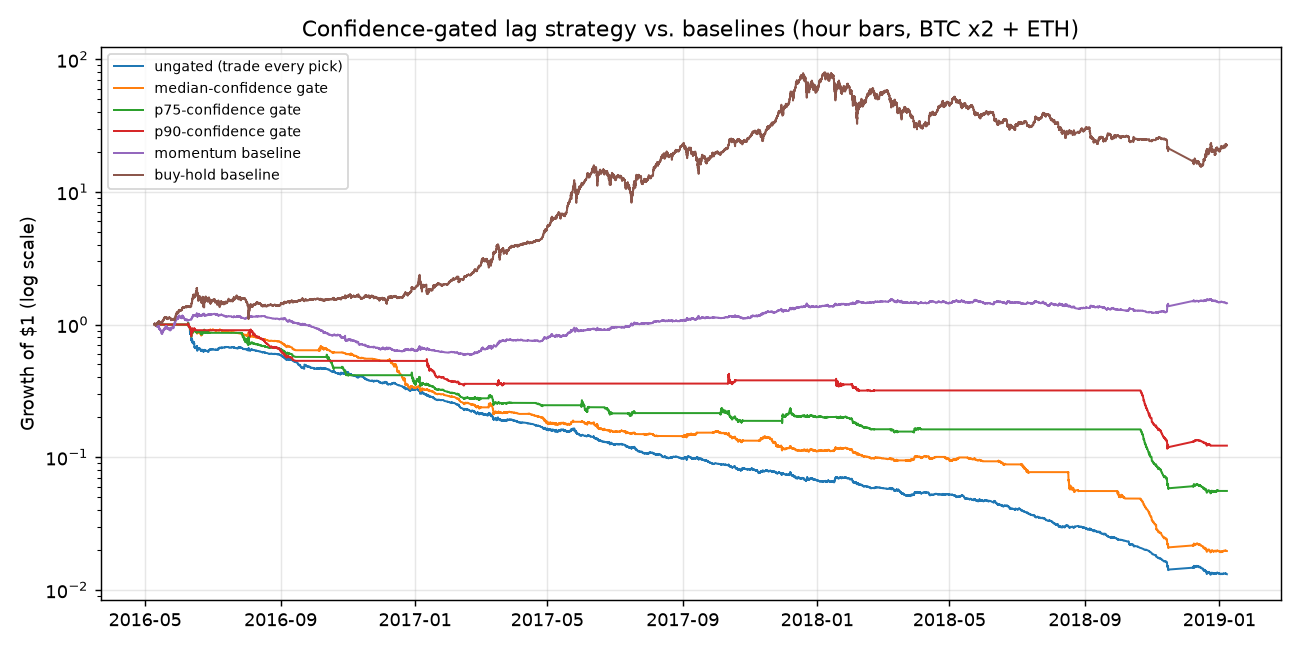
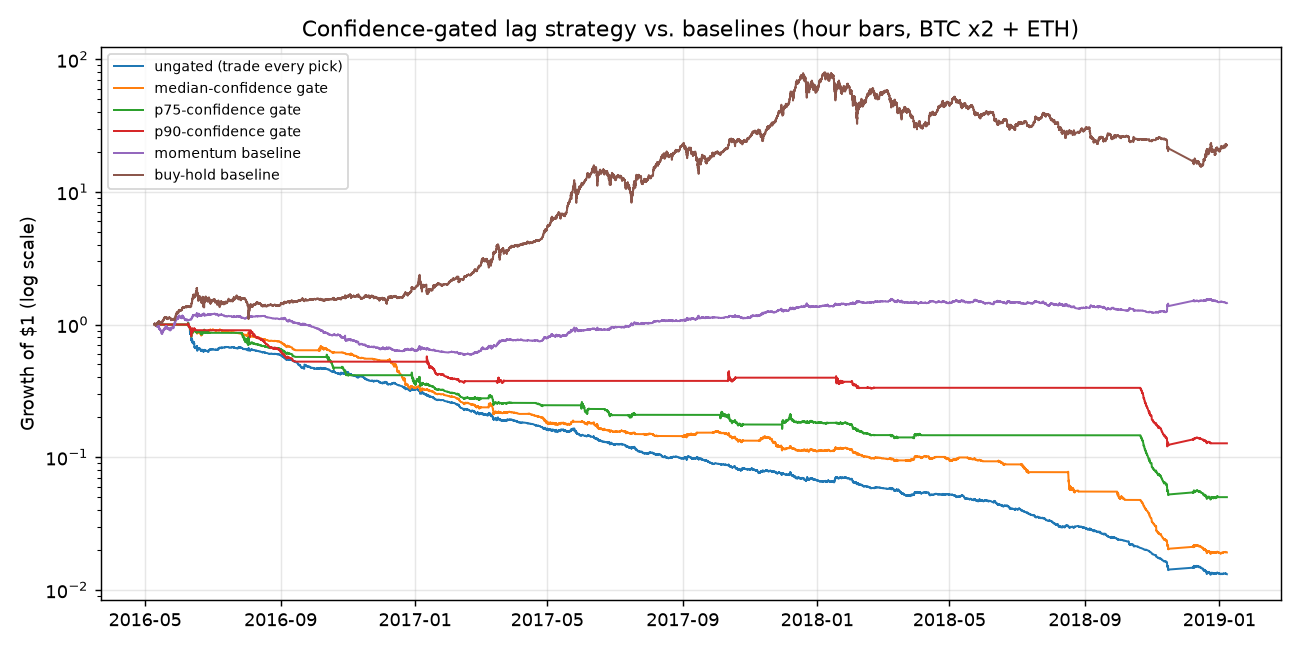
Vectorize vol-targeting scale calc in intraday backtest (perf fix)
The per-bar Python loop computing rolling realized vol was O(T) numpy
calls, fine at daily/hourly scale (T ~ 7k-23k) but unusable at T ~ 1.4M
minute bars (est. tens of minutes per backtest call, times ~200
permutations). Replaced with pandas rolling().std().shift(1), ~6.5x
faster on the hourly panel and makes the minute-frequency permutation
suite tractable. Also drops minute-frequency permutation count to 50
(vs. 200 for hourly) to keep total runtime reasonable given the still
higher per-call cost at that row count.

diff --git a/experiments/lag_propagation_intraday/run.py b/experiments/lag_propagation_intraday/run.py
@@ -34,6 +34,7 @@ CONFIGS = {
         target_vol_annual=0.20,
         vol_lookback=24 * 30,
         max_leverage=3.0,
+        n_permutations=200,
     ),
     "minute": dict(
         window=60 * 24 * 7,    # 1-week trailing window
@@ -45,6 +46,7 @@ CONFIGS = {
         target_vol_annual=0.20,
         vol_lookback=60 * 24 * 7,
         max_leverage=3.0,
+        n_permutations=50,  # T~1.4M rows: each permutation costs ~5s, keep runtime sane
     ),
 }
 
@@ -215,7 +217,7 @@ def main():
         for row in disc["all_significant_pairs"]:
             print(f"  {row['driver']:15s} -> {row['target']:15s} lag={row['lag']:3d} corr={row['corr']:+.4f} q={row['qvalue']:.2e}")
 
-        bt = run_backtest_suite(rets, ALL_ASSETS, TRADABLE_ASSETS, cfg)
+        bt = run_backtest_suite(rets, ALL_ASSETS, TRADABLE_ASSETS, cfg, n_permutations=cfg["n_permutations"])
         for label, m in bt["gated_results"].items():
             print(f"  [{label}] sharpe={m['sharpe']:.3f} n_active={m['mean_n_active']:.2f} "
                   f"turnover={m['mean_turnover']:.3f} threshold={m['threshold_abs_corr']:.4f}")
@@ -236,7 +238,7 @@ def main():
                                 f"Effect of confidence gating ({freq} bars)")
         plot_null_distribution(bt["_null_sharpes"], bt["gated_results"]["ungated (trade every pick)"]["sharpe"],
                                 os.path.join(RESULTS_DIR, f"permutation_null_{freq}.png"),
-                                f"Best-pick vs. {N_PERMUTATIONS} random permutations ({freq} bars)")
+                                f"Best-pick vs. {cfg['n_permutations']} random permutations ({freq} bars)")
 
     json_out = {freq: {"discovery": r["discovery"], "backtest": clean(r["backtest"])} for freq, r in results.items()}
     with open(os.path.join(RESULTS_DIR, "summary.json"), "w") as f:

diff --git a/experiments/lag_propagation_intraday/backtest.py b/experiments/lag_propagation_intraday/backtest.py
@@ -140,11 +140,14 @@ def raw_signal_to_portfolio(raw: np.ndarray, target_rets: np.ndarray, annualizat
     port_raw_ret = np.zeros(T)
     port_raw_ret[1:] = (weight[:-1] * target_rets[1:]).sum(axis=1)
 
-    scale = np.ones(T)
-    for t in range(vol_lookback + 1, T):
-        realized = port_raw_ret[t - vol_lookback:t].std(ddof=1) * np.sqrt(annualization)
-        if realized > 1e-8:
-            scale[t] = min(target_vol_annual / realized, max_leverage)
+    # rolling std of port_raw_ret, evaluated one bar back (no lookahead), vectorized
+    # -- a plain Python per-bar loop here is O(T) numpy calls and doesn't scale to
+    # T ~ 10^6 minute bars.
+    rolling_std = pd.Series(port_raw_ret).rolling(vol_lookback).std(ddof=1).shift(1).to_numpy()
+    realized = rolling_std * np.sqrt(annualization)
+    with np.errstate(invalid="ignore", divide="ignore"):
+        scale = np.where(realized > 1e-8, np.minimum(target_vol_annual / realized, max_leverage), 1.0)
+    scale = np.nan_to_num(scale, nan=1.0)
 
     scaled_weight = weight * scale[:, None]
     turnover = np.abs(np.diff(scaled_weight, axis=0, prepend=np.zeros((1, ntar)))).sum(axis=1)
